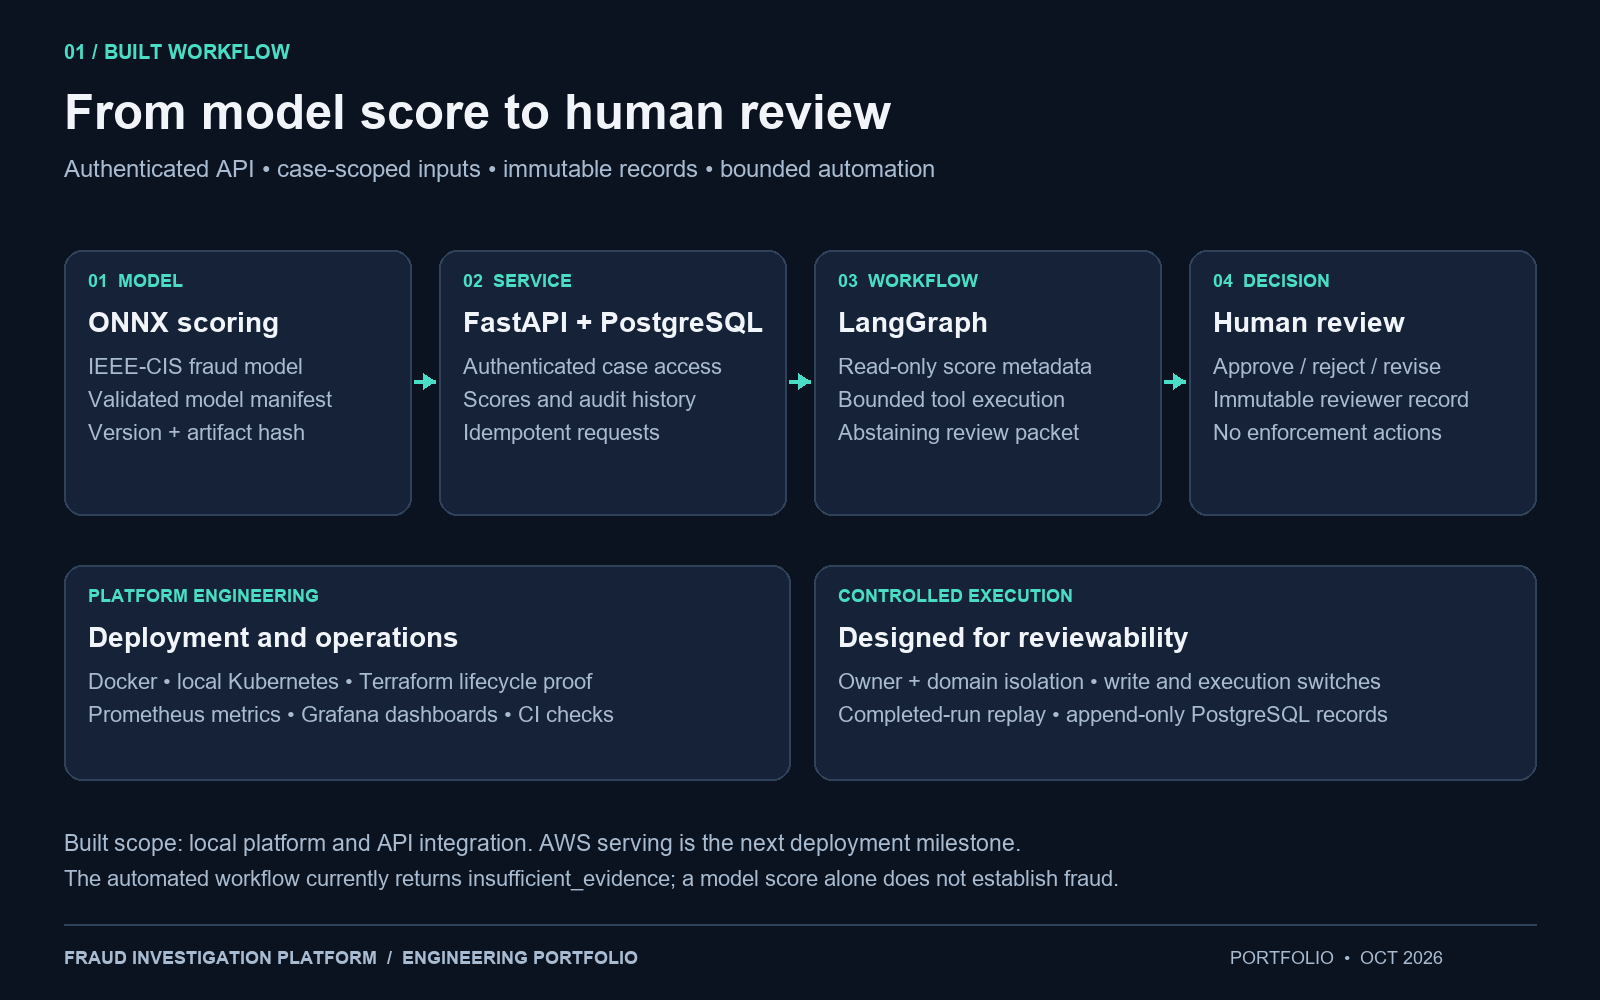
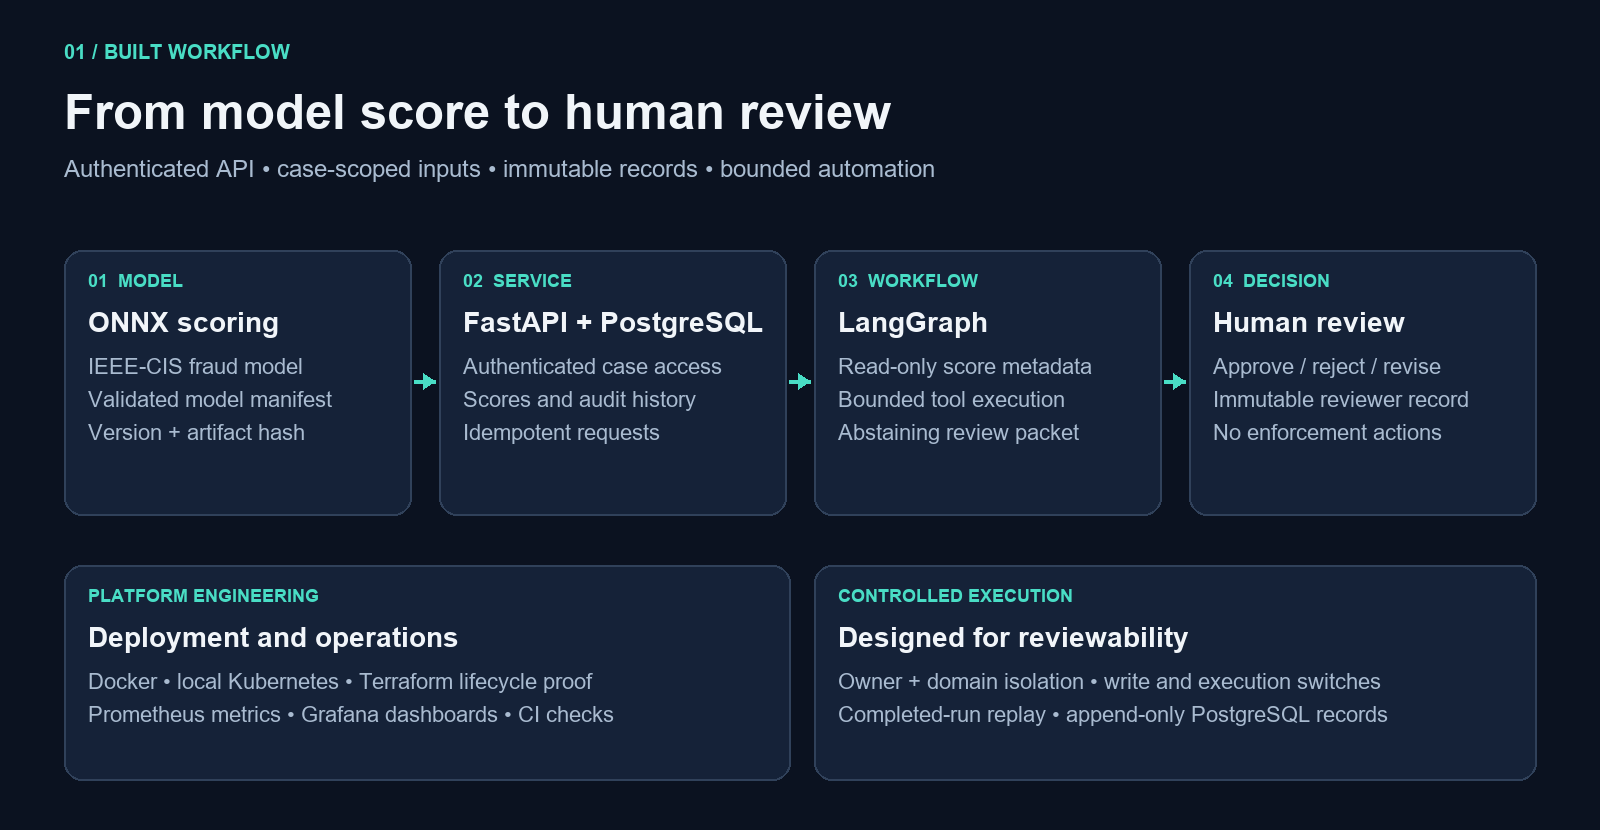
Remove portfolio image footers and add simple workflow downloads

diff --git a/scripts/render_portfolio_images.py b/scripts/render_portfolio_images.py
@@ -20,14 +20,6 @@ def page(label, title, subtitle):
     draw.text((64, 40), label.upper(), font=font(20, True), fill=TEAL)
     draw.text((64, 84), title, font=font(49, True), fill=INK)
     draw.text((64, 155), subtitle, font=font(24), fill=MUTED)
-    draw.line((64, 924, 1536, 924), fill="#30415a", width=2)
-    draw.text(
-        (64, 947),
-        "FRAUD INVESTIGATION PLATFORM  /  ENGINEERING PORTFOLIO",
-        font=font(18, True),
-        fill=MUTED,
-    )
-    draw.text((1230, 947), "PORTFOLIO  •  OCT 2026", font=font(18), fill=MUTED)
     return image, draw
 
 
@@ -98,20 +90,7 @@ def workflow():
             "Completed-run replay • append-only PostgreSQL records",
         ],
     )
-    draw.text(
-        (64, 830),
-        "Built scope: local platform and API integration. "
-        "AWS serving is the next deployment milestone.",
-        font=font(23),
-        fill=MUTED,
-    )
-    draw.text(
-        (64, 866),
-        "The automated workflow currently returns insufficient_evidence; "
-        "a model score alone does not establish fraud.",
-        font=font(22),
-        fill=MUTED,
-    )
+    image = image.crop((0, 0, 1600, 830))
     image.save(OUT / "01-workflow.png")
 
 
@@ -159,13 +138,7 @@ def results():
         font=font(23),
         fill=INK,
     )
-    draw.text(
-        (64, 871),
-        "Retrospective model audit and short local replay; "
-        "these figures are not a production SLA or AWS benchmark.",
-        font=font(21),
-        fill=MUTED,
-    )
+    image = image.crop((0, 0, 1600, 880))
     image.save(OUT / "02-results.png")
 
 
@@ -225,13 +198,7 @@ def roadmap():
         ],
         accent="#f8c66a",
     )
-    draw.text(
-        (64, 876),
-        "Next milestones describe the intended architecture; "
-        "the Built column describes implemented capabilities.",
-        font=font(22),
-        fill=MUTED,
-    )
+    image = image.crop((0, 0, 1600, 895))
     image.save(OUT / "03-roadmap.png")
 
 

diff --git a/docs/PORTFOLIO_SHOWCASE.md b/docs/PORTFOLIO_SHOWCASE.md
@@ -67,4 +67,6 @@ separate ONNX and Docker serving evidence.
 
 These images are architecture and results graphics, not screenshots of deployed services.
 Their source is [the rendering script](../scripts/render_portfolio_images.py).
-All three PNGs are 1600 × 1000 and can be reused in a GitHub profile, portfolio, or presentation.
+The PNGs can be reused in a GitHub profile, portfolio, or presentation. The clean versions
+omit date stamps and footer text. A [simple six-step workflow](images/portfolio/simple-workflow.png)
+is also available as [JPG](images/portfolio/simple-workflow.jpg).
